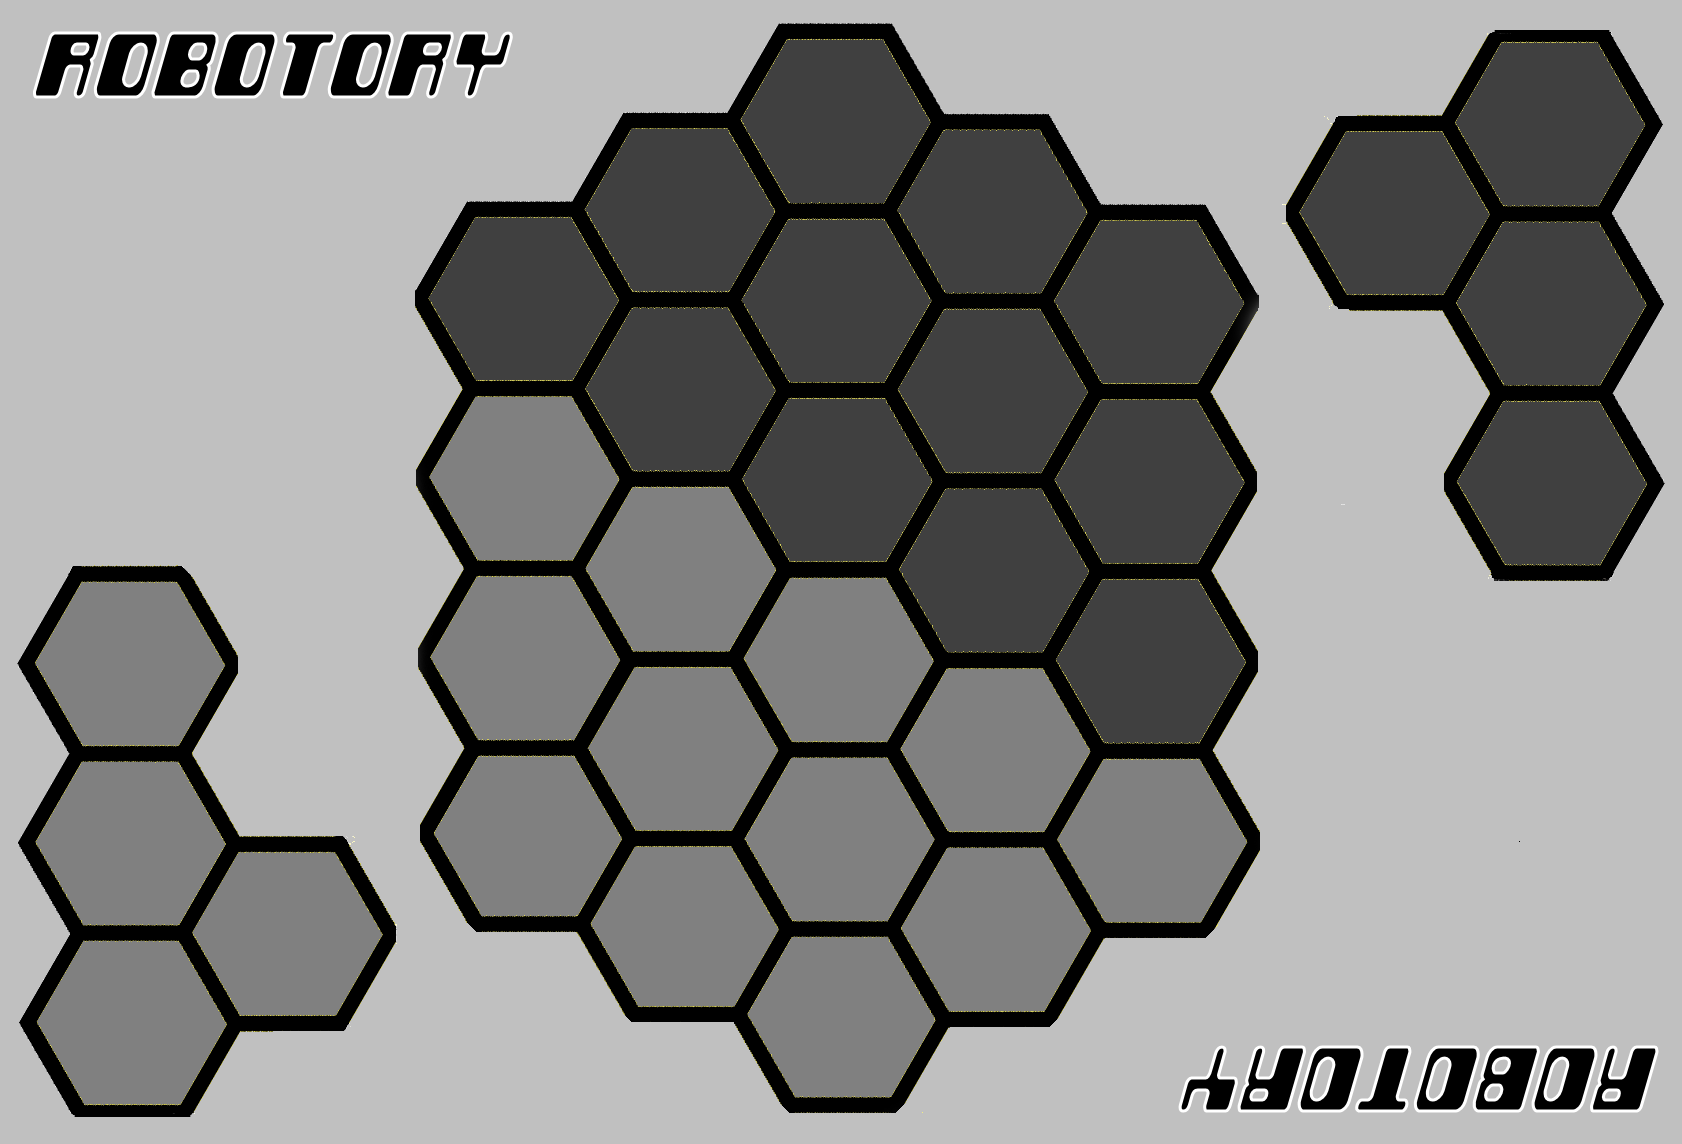
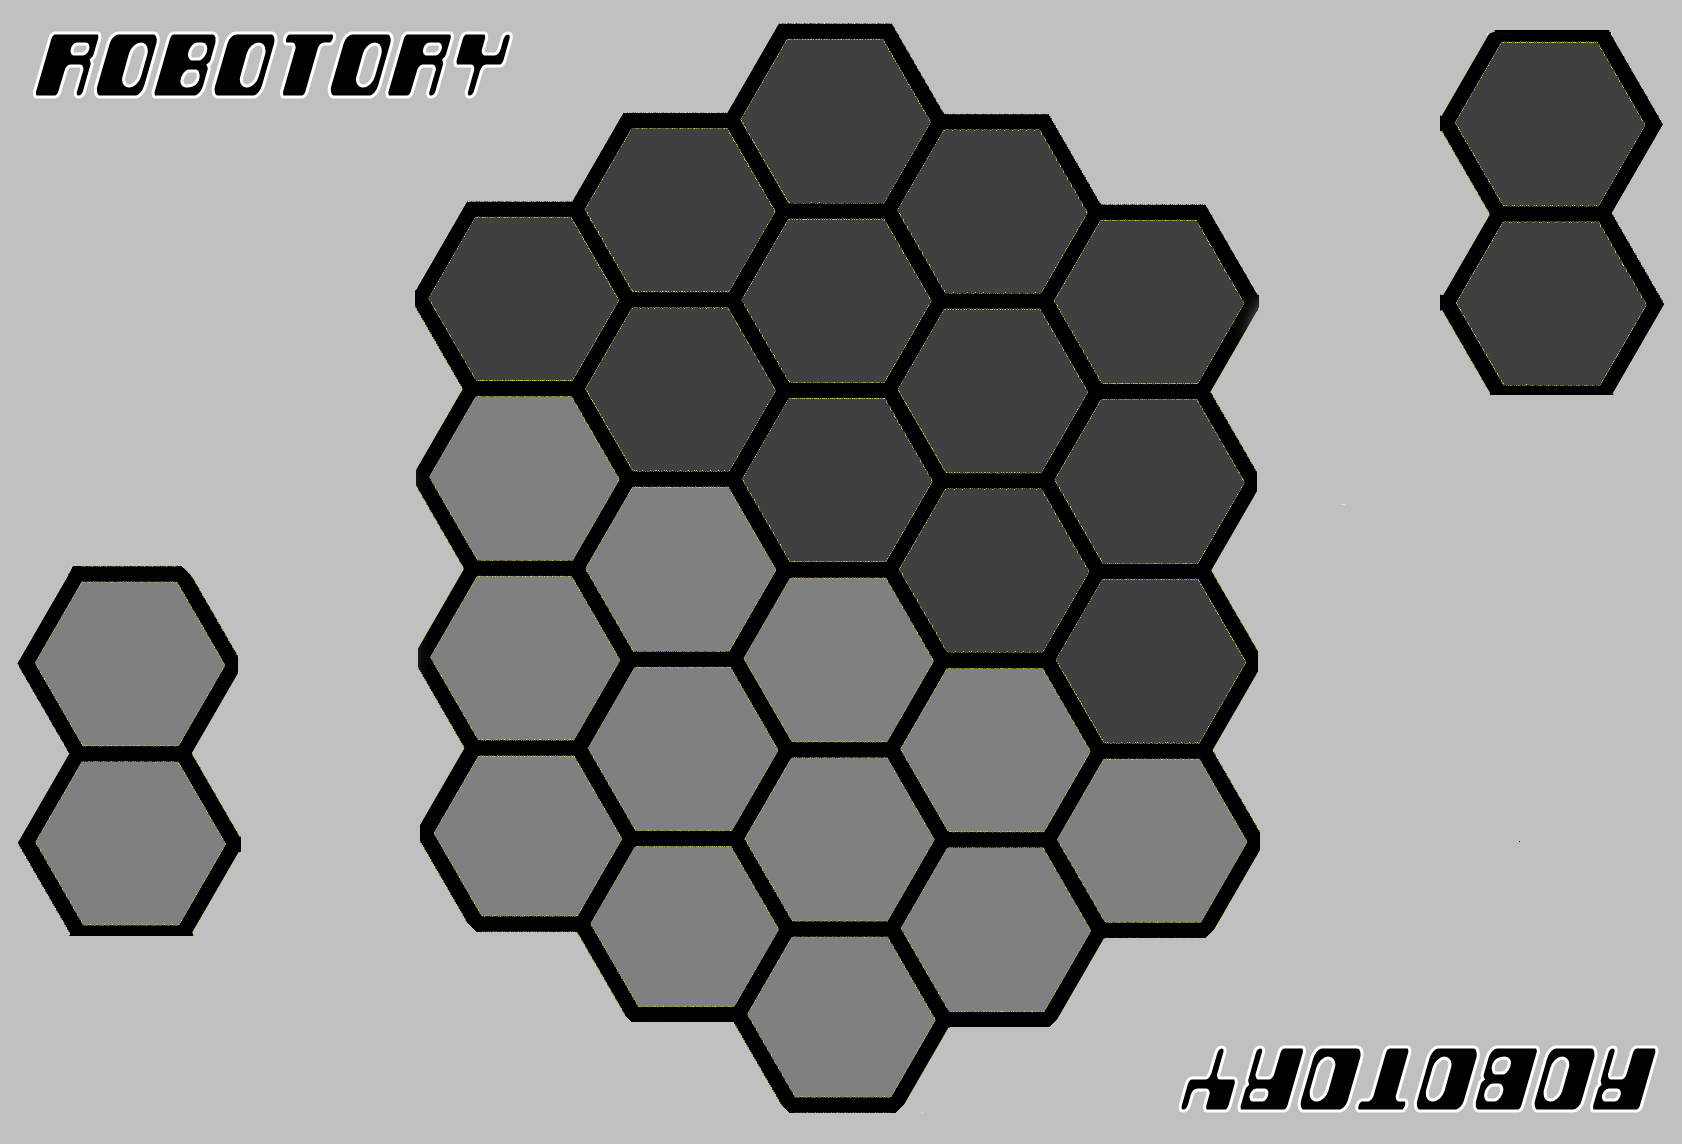
Changes board personal supplies

Changed region(s): [[0.0, 0.7037, 0.2473, 0.979], [0.8347, 0.3365, 0.9893, 0.5201], [0.742, 0.0918, 0.8966, 0.2753]]

diff --git a/src/main/java/view/board/BoardPanel.java b/src/main/java/view/board/BoardPanel.java
@@ -89,7 +89,7 @@ public class BoardPanel extends JPanel {
 			xoffset += leftoffset;
 		}
 
-		x = 4;
+		x = 3;
 		yoffset += (jumpoffset * 2);
 		for (int i = 5; i > 3; i--) {
 			for (int y = 0; y < i; y++) {
@@ -123,41 +123,43 @@ public class BoardPanel extends JPanel {
 
 		BoardHexagon h = null;
 
-		for (int y = 0; y < 3; y++) {
-			h = new BoardHexagon(BoardHexagon.Type.P1_SUPPLY, y);
-			p1Supply.add(h);
-			addBoardEvent(h);
-			h.setBounds(xoffset, yoffset + (hexagonsize * y) + (topoffset * y), hexagonsize, hexagonsize);
-			this.add(h);
-		}
-
-		yoffset -= jumpoffset;
-		xoffset += leftoffset;
-		h = new BoardHexagon(BoardHexagon.Type.P1_SUPPLY, 3);
+		h = new BoardHexagon(BoardHexagon.Type.P1_SUPPLY, 0);
+		h.setText("2");
+		h.setHorizontalTextPosition(JLabel.CENTER);
 		p1Supply.add(h);
 		addBoardEvent(h);
-		h.setBounds(xoffset, yoffset + (hexagonsize * 2) + (topoffset * 2), hexagonsize, hexagonsize);
+		h.setBounds(xoffset, yoffset + (hexagonsize * 0) + (topoffset * 0), hexagonsize, hexagonsize);
+		this.add(h);
+		
+		h = new BoardHexagon(BoardHexagon.Type.P1_SUPPLY, 1);
+		h.setText("2");
+		h.setHorizontalTextPosition(JLabel.CENTER);
+		p1Supply.add(h);
+		addBoardEvent(h);
+		h.setBounds(xoffset, yoffset + (hexagonsize * 1) + (topoffset * 1), hexagonsize, hexagonsize);
 		this.add(h);
 
 		yoffset = 58;
 		xoffset = 617;
 
-		h = new BoardHexagon(BoardHexagon.Type.P2_SUPPLY, 0);
-		p2Supply.add(h);
-		addBoardEvent(h);
-		h.setBounds(xoffset, yoffset, hexagonsize, hexagonsize);
-		this.add(h);
-
 		yoffset -= jumpoffset;
 		xoffset += leftoffset;
 
-		for (int y = 0; y < 3; y++) {
-			h = new BoardHexagon(BoardHexagon.Type.P2_SUPPLY, y + 1);
-			p2Supply.add(h);
-			addBoardEvent(h);
-			h.setBounds(xoffset, yoffset + (hexagonsize * y) + (topoffset * y), hexagonsize, hexagonsize);
-			this.add(h);
-		}
+		h = new BoardHexagon(BoardHexagon.Type.P2_SUPPLY, 0);
+		h.setText("2");
+		h.setHorizontalTextPosition(JLabel.CENTER);
+		p2Supply.add(h);
+		addBoardEvent(h);
+		h.setBounds(xoffset, yoffset + (hexagonsize * 0) + (topoffset * 0), hexagonsize, hexagonsize);
+		this.add(h);
+		
+		h = new BoardHexagon(BoardHexagon.Type.P2_SUPPLY, 1);
+		h.setText("2");
+		h.setHorizontalTextPosition(JLabel.CENTER);
+		p2Supply.add(h);
+		addBoardEvent(h);
+		h.setBounds(xoffset, yoffset + (hexagonsize * 1) + (topoffset * 1), hexagonsize, hexagonsize);
+		this.add(h);
 
 	}
 

diff --git a/src/main/java/view/board/BoardHexagon.java b/src/main/java/view/board/BoardHexagon.java
@@ -13,6 +13,7 @@ import javax.swing.Icon;
 import javax.swing.ImageIcon;
 import javax.swing.JLabel;
 
+import model.piece.Piece;
 import view.resources.Images;
 
 /**
@@ -60,53 +61,6 @@ public class BoardHexagon extends JLabel {
 	}
 
 	/**
-	 * Identifies piece occupying {@link BoardHexagon}.<br>
-	 * Possible values are:
-	 * <ul>
-	 * <li>{@link #RED_ROBOT};
-	 * <li>{@link #BLACK_ROBOT};
-	 * <li>{@link #WHITE_ROBOT};
-	 * <li>{@link #BLACK_ENERGY};
-	 * <li>{@link #WHITE_ENERGY};
-	 * <li>{@link #EMPTY};
-	 * <ul>
-	 * 
-	 * @author douglas
-	 */
-	public enum Piece {
-		/**
-		 * A red robot.
-		 */
-		RED_ROBOT,
-		/**
-		 * A black robot.
-		 */
-		BLACK_ROBOT,
-		/**
-		 * A white robot.
-		 */
-		WHITE_ROBOT,
-		/**
-		 * A black energy.
-		 */
-		BLACK_ENERGY,
-		/**
-		 * A white energy.
-		 */
-		WHITE_ENERGY,
-		/**
-		 * No piece.<br>
-		 * The {@link Hexagon} is empty.
-		 */
-		EMPTY;
-
-		Object getEnumConstants() {
-			// TODO Auto-generated method stub
-			return null;
-		}
-	}
-
-	/**
 	 * 
 	 */
 	private static final long serialVersionUID = -8809176813937027938L;
@@ -118,7 +72,7 @@ public class BoardHexagon extends JLabel {
 
 	protected Point position = null;
 	protected Type type = null;
-	protected Piece piece = Piece.EMPTY;
+	protected Piece piece = new Piece();
 
 	public BoardHexagon(Type type) {
 		this();
@@ -169,7 +123,7 @@ public class BoardHexagon extends JLabel {
 	 */
 	protected void onMouseOver() {
 		Icon icon = null;
-		if (this.piece != Piece.EMPTY) {
+		if (this.piece.getType() != Piece.Type.EMPTY) {
 			
 			BufferedImage combinedImage = new BufferedImage( 
 					DIMENSION.width, 
@@ -205,7 +159,7 @@ public class BoardHexagon extends JLabel {
 	 */
 	public void displayPiece() {
 		Icon icon = null;
-		if (this.piece != Piece.EMPTY) {
+		if (this.piece.getType() != Piece.Type.EMPTY) {
 			icon = new ImageIcon(getImage(this.piece));
 		} else {
 			icon = new ImageIcon();
@@ -224,7 +178,7 @@ public class BoardHexagon extends JLabel {
 	 */
 	private Image getImage(Piece piece) {
 
-		switch (piece) {
+		switch (piece.getType()) {
 		case RED_ROBOT:
 			return Images.RED_ROBOT;
 		case BLACK_ROBOT:
@@ -285,6 +239,10 @@ public class BoardHexagon extends JLabel {
 	 */
 	public void setPiece(Piece piece) {
 		this.piece = piece;
+	}
+	
+	public void setPiece(Piece.Type type) {
+		this.piece = new Piece(type);
 	}
 
 }

diff --git a/src/main/java/model/piece/Piece.java b/src/main/java/model/piece/Piece.java
@@ -1,0 +1,76 @@
+package model.piece;
+
+import view.board.BoardHexagon;
+
+public class Piece {
+
+
+	/**
+	 * Identifies piece occupying {@link BoardHexagon}.<br>
+	 * Possible values are:
+	 * <ul>
+	 * <li>{@link #RED_ROBOT};
+	 * <li>{@link #BLACK_ROBOT};
+	 * <li>{@link #WHITE_ROBOT};
+	 * <li>{@link #BLACK_ENERGY};
+	 * <li>{@link #WHITE_ENERGY};
+	 * <li>{@link #EMPTY};
+	 * <ul>
+	 * 
+	 * @author douglas
+	 */
+	public enum Type {
+		/**
+		 * A red robot.
+		 */
+		RED_ROBOT,
+		/**
+		 * A black robot.
+		 */
+		BLACK_ROBOT,
+		/**
+		 * A white robot.
+		 */
+		WHITE_ROBOT,
+		/**
+		 * A black energy.
+		 */
+		BLACK_ENERGY,
+		/**
+		 * A white energy.
+		 */
+		WHITE_ENERGY,
+		/**
+		 * No piece.<br>
+		 * The {@link Hexagon} is empty.
+		 */
+		EMPTY;
+
+		Object getEnumConstants() {
+			// TODO Auto-generated method stub
+			return null;
+		}
+	}
+
+	public Piece() {
+		
+	}
+	
+	public Piece(Type type) {
+		super();
+		this.type = type;
+	}
+
+	protected Type type = Type.EMPTY;
+
+	public Type getType() {
+		return type;
+	}
+
+	public void setType(Type type) {
+		this.type = type;
+	}
+	
+	
+	
+}

diff --git a/src/main/java/control/board/BoardController.java b/src/main/java/control/board/BoardController.java
@@ -4,6 +4,7 @@ import java.awt.event.MouseAdapter;
 import java.awt.event.MouseEvent;
 import java.util.Random;
 
+import model.piece.Piece;
 import view.board.BoardHexagon;
 import view.board.BoardPanel;
 
@@ -35,8 +36,15 @@ public class BoardController {
 				BoardHexagon hexagon = null;
 				if (arg0.getSource().getClass() == BoardHexagon.class) {
 					hexagon = (BoardHexagon) arg0.getSource();
-					hexagon.setPiece(BoardHexagon.Piece.values()[new Random().nextInt(BoardHexagon.Piece.values().length)]);
+					hexagon.setPiece(Piece.Type.values()[new Random().nextInt(Piece.Type.values().length)]);
 					hexagon.displayPiece();
+					try {
+						
+						int x = hexagon.getPosition().x;
+						int y = hexagon.getPosition().y;
+					} catch (Exception e) {
+						// TODO: handle exception
+					}
 				}
 				super.mouseClicked(arg0);
 			}
